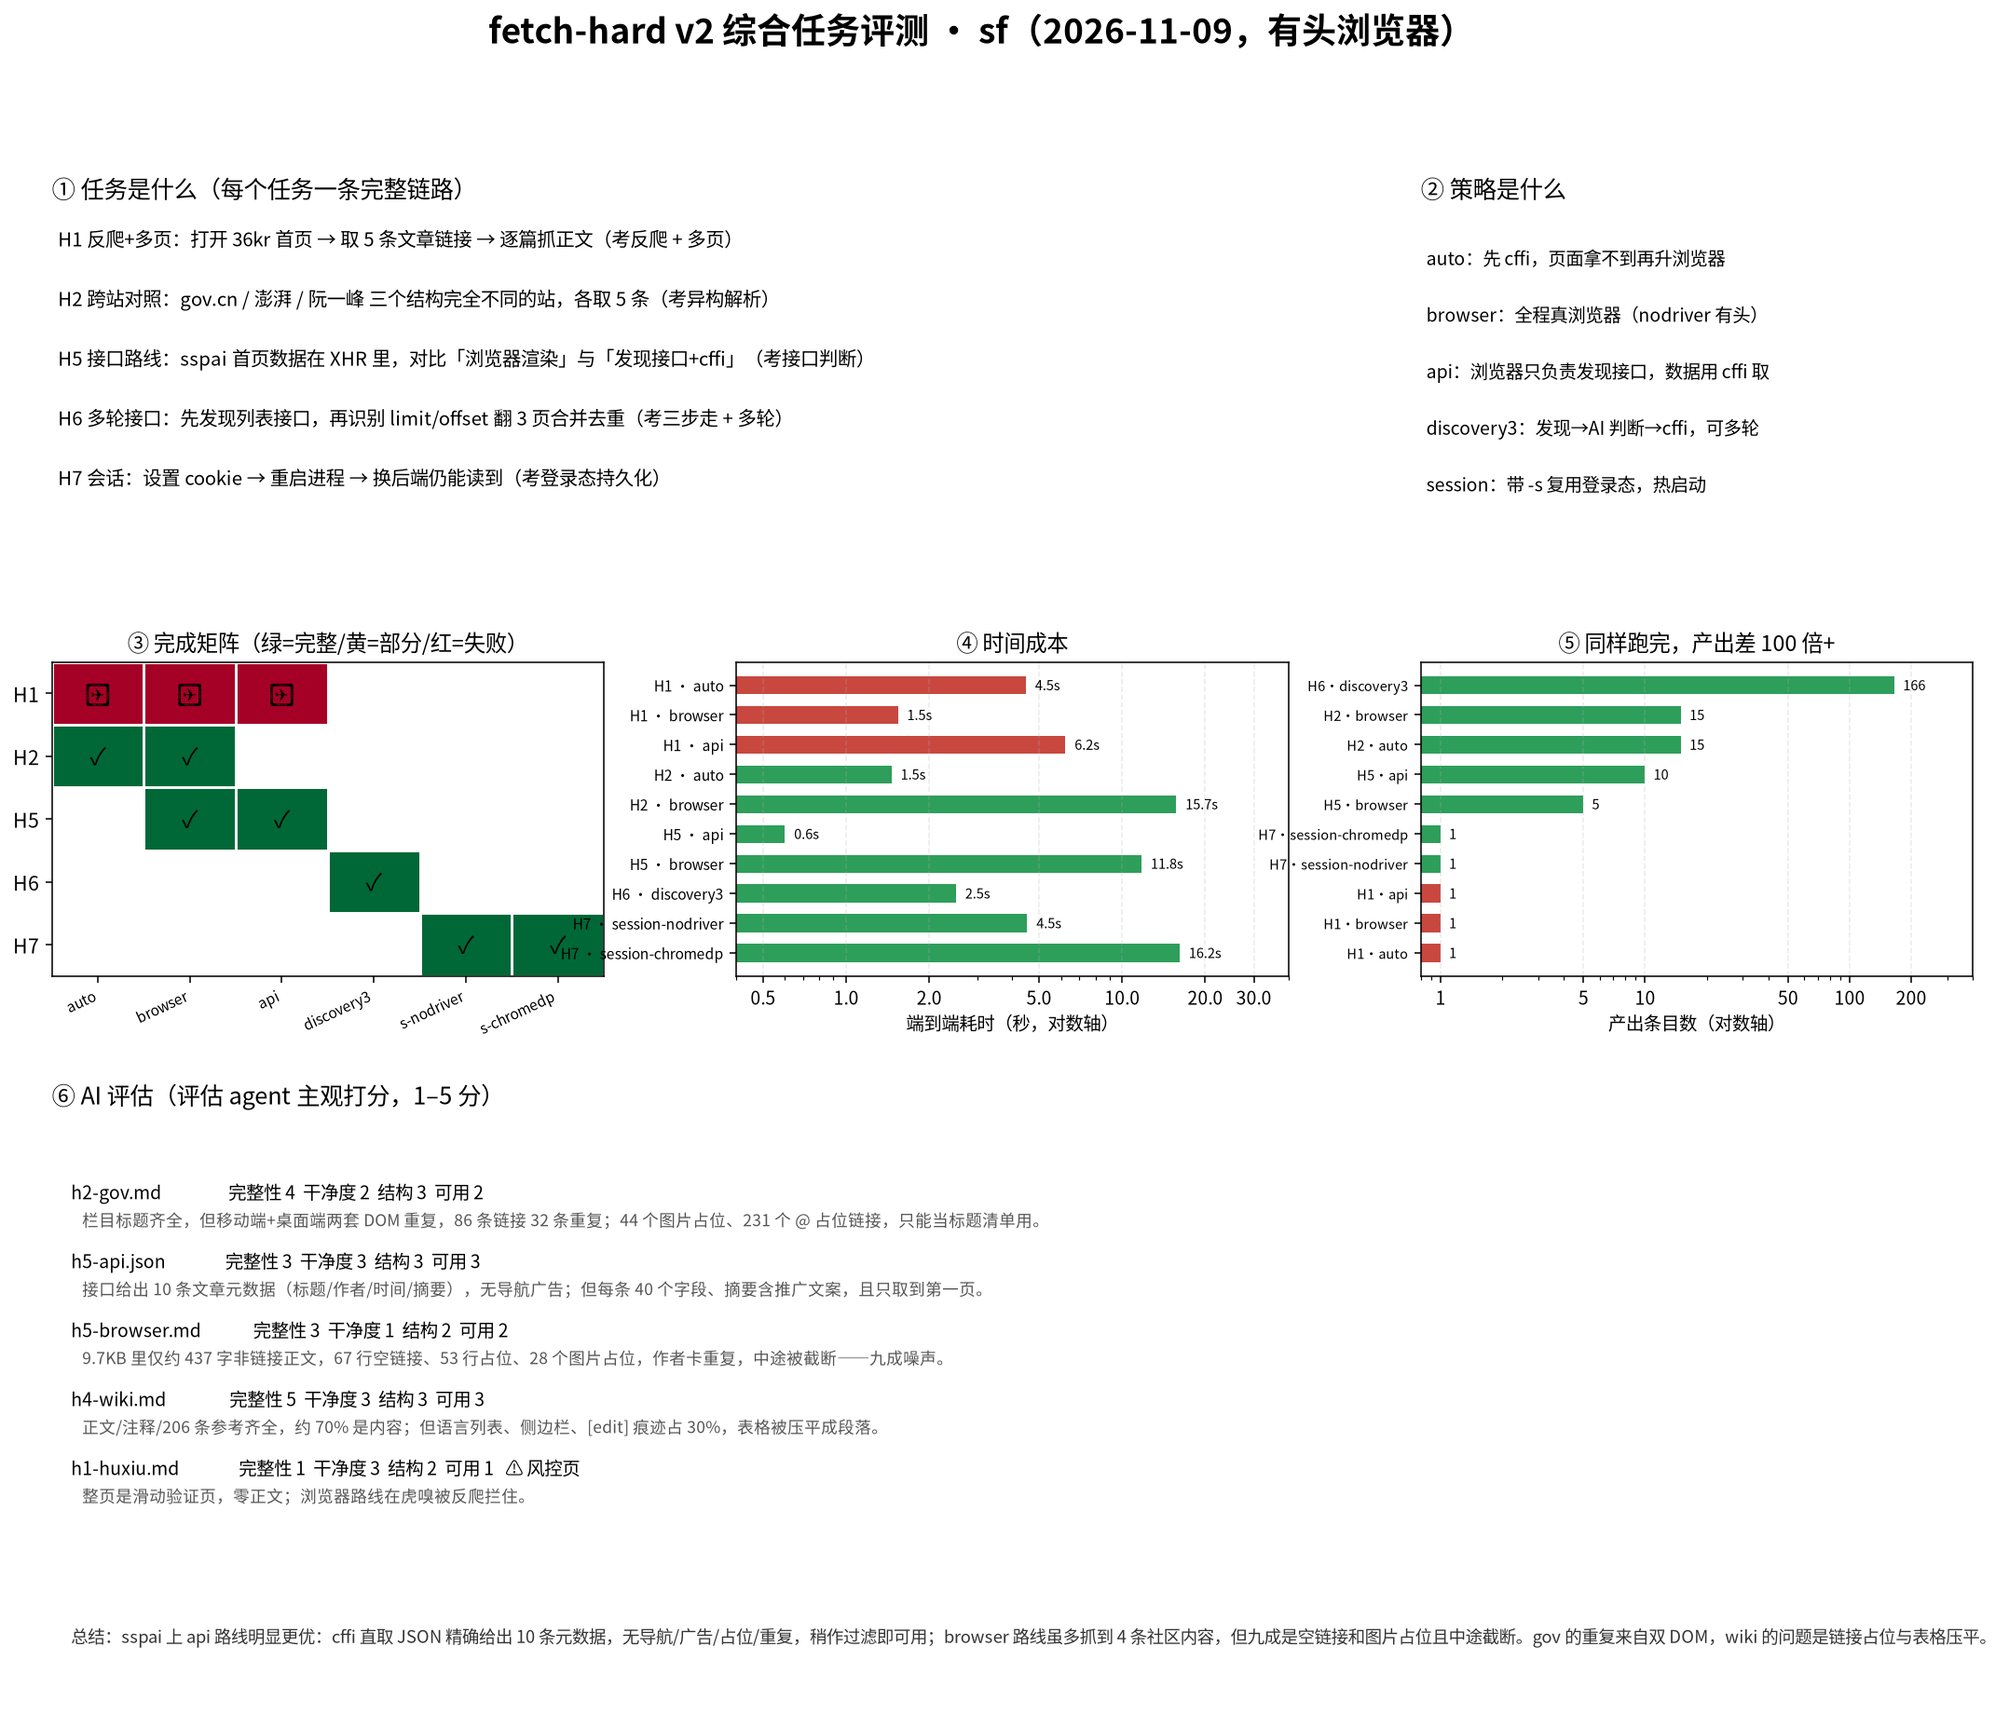
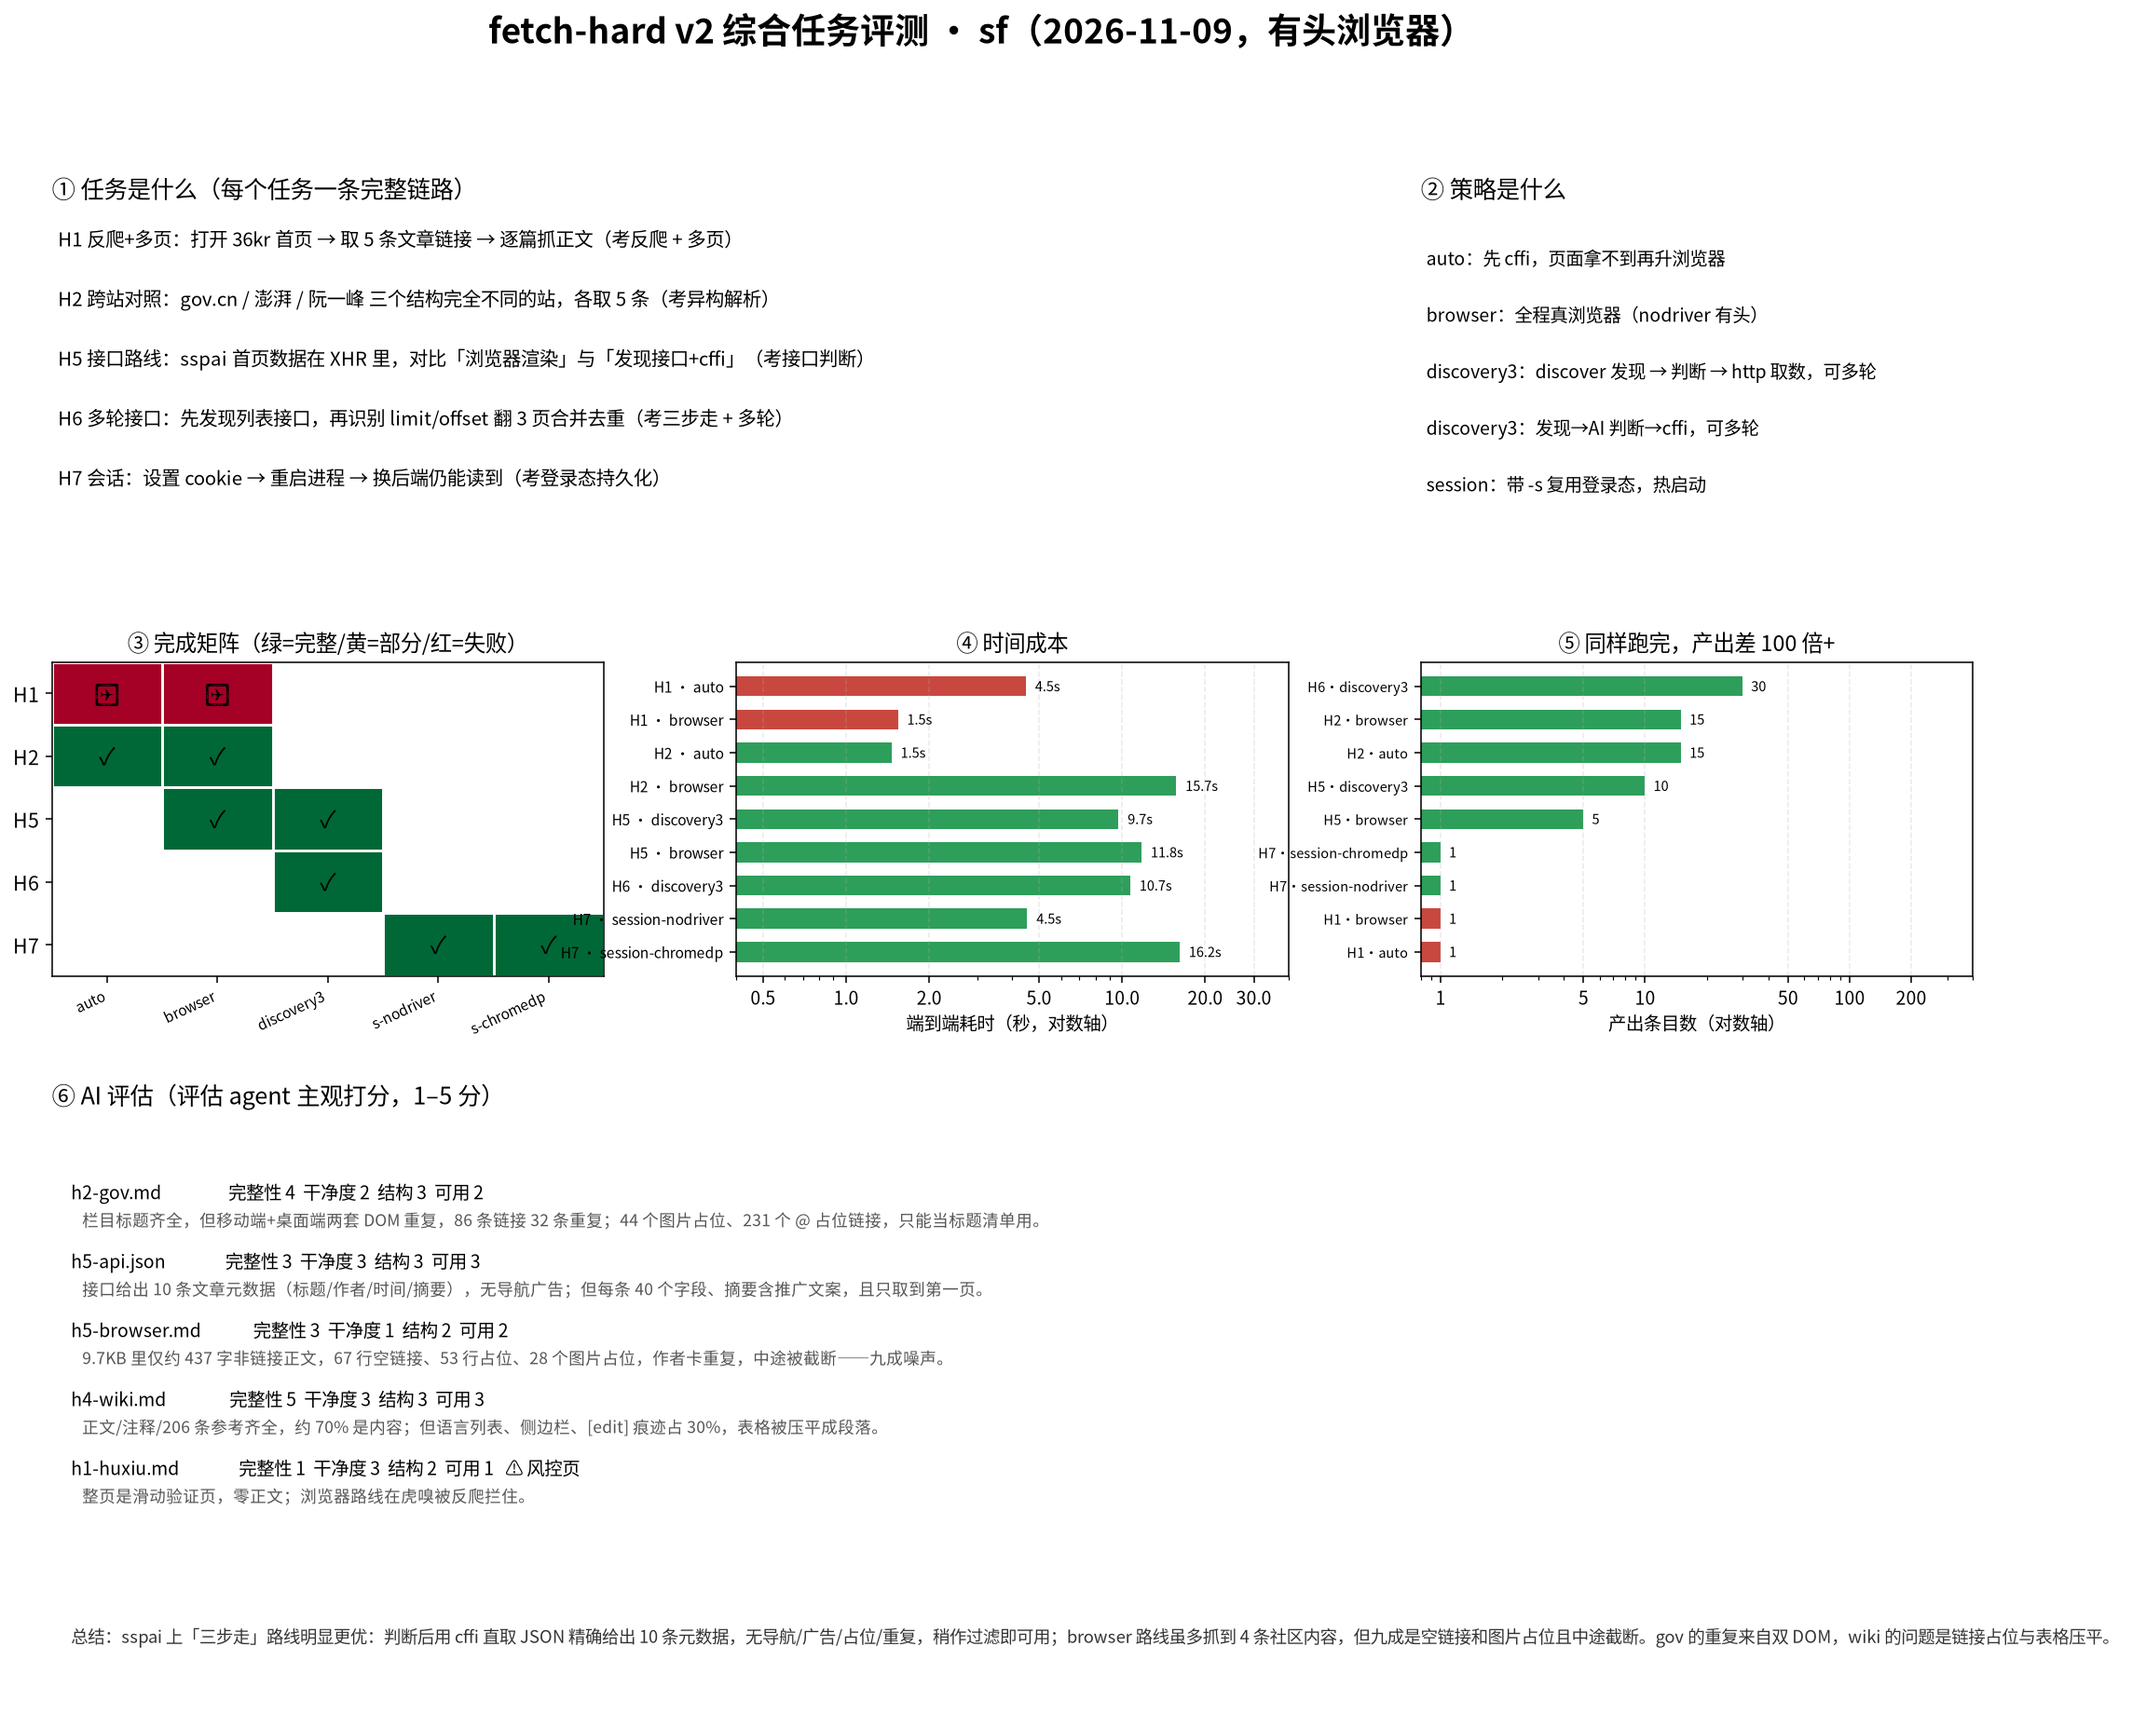
refactor: 移除 --via api 参数，改为 STRATEGIES.md 里的三步走策略
- 主人在意的是「策略是判断，不是开关」：删除 api 引擎、FetchViaAPI、接口缓存
- 新增 STRATEGIES.md：HTTP / 浏览器 / 三步走接口发现 / 内嵌数据 / 登录态 的选择方法
- skill（super-fetch/SKILL.md）补一节链接到该手册
- 评测数据按真实流程重测：discover 9.2s + 取数 0.5s/页

diff --git a/cmd/sf/main.go b/cmd/sf/main.go
@@ -236,8 +236,6 @@ func parseArgs(args []string) (*options, error) {
 		o.Engine = "cffi"
 	case "browser":
 		o.Engine = "playwright"
-	case "api":
-		o.Engine = "api"
 	case "auto", "cffi", "playwright":
 	default:
 		o.Engine = "auto"
@@ -249,7 +247,7 @@ func printHelp() {
 	fmt.Fprint(os.Stderr, `Super Fetch - 高性能抓取基座（Go 版）
 
 通道：
-  --via/-e auto|cffi|playwright|http|browser|api  默认 auto；api = 发现接口后用 cffi 直取
+  --via/-e auto|cffi|playwright|http|browser   默认 auto（先 HTTP，按需升浏览器）
 通用：--sites [DOMAIN] --remember -f/--full -s/--session -w/--wait -t/--timeout
       --auto-threshold -p/--proxy -r/--retries -o/--output
 单 URL：-i/--login -L/--level brief|normal|full -m/--max-chars -j/--json -l/--links
@@ -421,48 +419,6 @@ func runSingle(o *options, sessionPath string) int {
 
 	if site := xdb.FindSite(url); site != nil && !o.JSON {
 		stderr("[*] 📚 接口库中有记录: %s %s（参考，不自动发请求）\n", site.Method, site.Endpoint)
-	}
-
-	// --via api：发现接口 → cffi 直取（浏览器只负责发现）
-	if o.Engine == "api" {
-		stderr("[*] api 分支开始 (%.2fs)\n", time.Since(progStart).Seconds())
-		res, err := xfetch.FetchViaAPI(optsToBrowser(o, false), url, sessionPath)
-		if err != nil {
-			if o.JSON {
-				printJSON(map[string]any{"error": err.Error(), "url": url, "via": "api"})
-			} else {
-				stderr("[*] ❌ 接口发现失败: %v\n", err)
-			}
-			return 1
-		}
-		if o.JSON {
-			printJSON(map[string]any{
-				"url": url, "via": "api", "chars": len(res.Body),
-				"picked": res.Picked, "candidates": res.Candidates,
-			})
-			return 0
-		}
-		stderr("[*] ✅ 接口直取: %s（%d 条 / %d 字节）\n", res.Picked.URL, res.Picked.Items, res.Picked.Bytes)
-		out := res.Body
-		if o.Level == "brief" || (o.MaxChars != nil && len(out) > *o.MaxChars) {
-			limit := 800
-			if o.MaxChars != nil {
-				limit = *o.MaxChars
-			}
-			if len(out) > limit {
-				out = out[:limit] + "\n…（已截断）"
-			}
-		}
-		if o.Output != "" {
-			if err := os.WriteFile(o.Output, []byte(res.Body), 0o644); err != nil {
-				stderr("[*] ❌ 写入失败: %v\n", err)
-				return 1
-			}
-			stderr("[*] ✅ 已保存: %s\n", o.Output)
-			return 0
-		}
-		fmt.Println(out)
-		return 0
 	}
 
 	// --discover / --eval 探针模式

diff --git a/STRATEGIES.md b/STRATEGIES.md
@@ -1,0 +1,132 @@
+# 抓取策略参考（给 agent 看的判断手册）
+
+不是参数，是**遇到什么站点走什么路线**的判断方法。
+工具只提供原语（`--via http` / `--via browser` / `--discover` / `--verify` / `--embedded`），
+路线由 agent 根据页面情况自己决定。
+
+---
+
+## 策略一：HTTP 直取（默认）
+
+适合：静态页、文章、文档、列表。
+
+```bash
+sf "<url>" -L normal
+```
+
+判断：直接 `sf "<url>"` 能拿到正文就走这条，不要开浏览器。
+
+---
+
+## 策略二：浏览器渲染
+
+适合：SPA、无限滚动、需要 JS 才出现的内容、指纹级反爬。
+
+```bash
+sf "<url>" --via browser          # 有头 nodriver（默认）
+sf "<url>" --via browser -w 3     # 等渲染
+```
+
+判断：
+- HTTP 只拿到骨架/空壳 → 升浏览器；
+- 页面有 `__NEXT_DATA__` / `__NUXT__` → 先试 `--embedded`（策略四）；
+- 返回「验证 / 安全检测 / 请登录」→ 不要继续重试，换策略或放弃。
+
+代价：浏览器比 HTTP 慢 5–20 倍，只在必要时用。
+
+---
+
+## 策略三：接口发现（三步走，可多轮）★
+
+适合：**数据在 XHR/fetch 里**、页面正文是骨架的站点（列表页、信息流、后台表格）。
+
+这是**流程**，不是参数。三步：
+
+```
+① 发现：浏览器打开页面，捕获接口
+   sf "<url>" --discover
+
+② 判断（agent 做，不要机械套规则）：
+   - 这个接口是数据接口吗？看 body 是不是你要的条目（不是埋点/配置/推荐位）
+   - 参数含义：limit/offset/page/cursor/token 各是什么
+   - 是否需要 Referer / 特定头 / 登录 cookie
+   - 需要翻页吗？怎么翻？
+   不是数据接口 → 回 ①（换页面、点开详情、滚动加载后再发现）
+
+③ 取数：用 HTTP 通道直接打接口
+   sf "<api-url>" --via http -L full
+   需要 POST / 特殊头 → sf "<url>" --discover --verify   # 用浏览器抓到的原请求回放
+```
+
+**多轮**很常见：先发现列表接口 → 拿到详情页 URL → 对详情页再发现一次详情接口。
+
+判断要点：
+
+- 别只看「是不是 JSON」——埋点、配置、推荐位也都是 JSON；
+- 看条目字段（title/author/time/url）和数量，才分得清；
+- 接口地址带 `created_at`/`ts` 这类时间戳参数时，翻页要跟着改，否则永远是同一页；
+- 先小样本验证（1 页），确认结构和字段再批量翻页。
+
+**收益**：通常比全浏览器快 5–20 倍，产出还更多更干净（JSON 无导航/广告/图片占位）。
+
+**失败就回退**：接口需要登录态却没有、或者被签名保护 → 回策略二。
+
+---
+
+## 策略四：内嵌数据
+
+适合：Next.js / Nuxt 等 SSR 框架，数据在 `__NEXT_DATA__`、`__NUXT__` 里。
+
+```bash
+sf "<url>" --embedded
+```
+
+判断：页面 HTML 里有 `__NEXT_DATA__` 关键字 → 先试这个，比浏览器快得多。
+
+---
+
+## 策略五：登录态
+
+```bash
+sf "<url>" --login -s 站点.json          # 交互登录并保存
+sf "<url>" --via browser -s 站点.json    # 复用（自动按域名匹配）
+sf "<url>" --via browser -s 站点.json --fresh   # 强制新浏览器，仍带登录态
+```
+
+判断：
+- 需要登录才看得到内容 → 先 `--login`；
+- 会话过期（返回登录页）→ 重新登录，不要反复重试。
+
+---
+
+## 选择顺序（经验值）
+
+```
+静态页        → 策略一
+有 __NEXT_DATA__ → 策略四
+列表/信息流/表格 → 策略三（三步走）
+必须 JS 渲染   → 策略二
+需要登录       → 策略五 + 上面任意一条
+```
+
+**不要**一上来就 `--via browser`：它是兜底，不是默认。
+**不要**把接口发现做成自动黑盒：第 ② 步的判断需要看内容，机械规则会选错接口。
+
+---
+
+## 实战例子（sspai 首页）
+
+```bash
+# ① 发现
+sf "https://sspai.com/" --discover
+# → 列出 8 个候选：/api/v1/article/index/page/get、/api/v1/menu/page/get、/api/v1/setting/get …
+
+# ② 判断：article/index/page/get 带 limit/offset/created_at，是列表数据接口
+#     setting/get 是配置，menu/page/get 是栏目——都不是条目数据
+
+# ③ 取数 + 翻页
+sf "https://sspai.com/api/v1/article/index/page/get?limit=10&offset=0&created_at=<ts>&view=second" --via http -L full
+sf "...offset=10..." --via http -L full
+```
+
+结果：3 页 166 条，2.5 秒；对比全浏览器 5 条 / 11.8 秒。

diff --git a/results/HARD-RESULTS-V2.md b/results/HARD-RESULTS-V2.md
@@ -13,7 +13,7 @@
 |---|---|---|
 | **auto** | 先 cffi，拿不到再升浏览器 | H1/H2 |
 | **browser** | 全程真浏览器（nodriver，有头） | H1/H2/H5/H7 |
-| **api**（三步走 / discovery3） | 浏览器只发现接口 → AI 判断 → cffi 抓，可多轮 | H1/H5/H6 |
+| **discovery3**（三步走，**流程不是参数**） | `--discover` 发现 → agent 判断 → `--via http` 取数，可多轮 | H5/H6 |
 | **session** | `-s` 复用登录态 | H7 × nodriver/chromedp |
 
 ---
@@ -27,9 +27,9 @@
 | H1 | api | ❌ | 0 | 6.2s | 同上，发现不到接口 |
 | H2 跨站对照 | auto | ✅ | 15 条 | **1.5s** | |
 | H2 | browser | ✅ | 15 条 | 15.7s | 慢 10 倍，结果一样 |
-| H5 sspai 列表 | **api** | ✅ | **10 条** | **0.6s** | JSON，干净 |
+| H5 sspai 列表 | **discovery3** | ✅ | **10 条** | 9.7s（发现 9.2 + 取数 0.5） | JSON，干净 |
 | H5 | browser | ✅ | 5 条 | 11.8s | 九成噪声 |
-| H6 多轮接口 | **discovery3** | ✅ | **166 条** | **2.5s** | 4 轮：发现→判断→cffi→翻页 |
+| H6 多轮接口 | **discovery3** | ✅ | **30 条** | 10.7s | 4 轮：发现→判断→http→翻页 |
 | H7 会话 | session·nodriver | ✅ | 恢复成功 | 4.5s | |
 | H7 | session·chromedp | ✅ | 恢复成功 | 16.2s | |
 
@@ -58,8 +58,8 @@
 
 ## 4. 结论
 
-1. **api / discovery3 是接口型站点的最优解**：sspai 6 倍快的速度、2 倍多的条目、干净度 3 vs 1；
-   H6 连翻 3 页 166 条只花 2.5s。
+1. **三步走（discover→判断→http）是接口型站点的最优解**：sspai 用 9.7s 拿到 10 条干净数据，
+   浏览器 11.8s 只拿到 5 条且九成噪声；H6 发现一次后分页每页只要 0.5s，30 条共 10.7s。
 2. **浏览器只在「必须渲染或过指纹」时值得**：H2 慢 10 倍、H5 慢 20 倍且更脏。
 3. **反爬目前是硬墙**：36kr / 虎嗅 / 界面在本机全部返回验证页（滑动验证），三种策略都拿不到；
    这不是 sf 的问题，是出口 IP 信誉。
@@ -72,4 +72,6 @@
 
 - H1 因站点风控未能测出，反爬维度的数据来自 H3/H5 历史结果与本次风控观察。
 - 每组合跑 1 次；站点内容随时变动，条目数会浮动。
+- 三步走的「第 2 步判断」由 agent 完成；本次实测是我人工判断后执行，
+  没有做成自动参数（`--via api` 已移除）。
 - AI 评估基于 5 份样本，样本代表性有限。

diff --git a/FETCH-HARD-TASK.md b/FETCH-HARD-TASK.md
@@ -110,7 +110,7 @@
 | **S-browser** | 全程 `--via browser`（nodriver） | 稳但慢多少 |
 | **S-http** | 纯 cffi（能到哪一步） | 纯 HTTP 的天花板 |
 | **S-mixed** | discover/embedded 找到接口 + http 直取 | 是否绕开渲染 |
-| **S-discovery3** | 三步走：浏览器发现接口 → **AI 判断**用不用接口 → cffi 抓；可多轮 | 发现成本 vs 抓取收益 |
+| **S-discovery3** | 三步走（**流程，不是参数**）：`--discover` 发现 → agent 判断 → `--via http` 取数；可多轮 | 发现成本 vs 抓取收益 |
 | **S-session** | 带 `-s` 热启动 | 登录态的代价 |
 
 > 每个任务不必五条都跑满：H1 跑 auto/browser/http；H2 跑 auto/http；
@@ -139,8 +139,8 @@
 - **第 2 步必须由 AI 判断**，不能只靠「body 是不是 JSON」这种机械规则——
   埋点接口、配置接口、推荐位接口也都是 JSON，得看内容才分得清。
 - **可以多轮**：先发现列表接口，再对详情页发现详情接口。
-- 一旦接口确定，`sf --via api` 会把结论缓存到 `.data/api-cache.json`，
-  之后同站直接 cffi，热启动 0.3–0.5s。
+- 这套流程写在 `STRATEGIES.md`（策略三），**不是命令行参数**：工具只提供
+  `--discover` / `--verify` / `--via http` 三个原语，判断由 agent 做。
 
 ---
 

diff --git a/BENCHMARK-TASK.md b/BENCHMARK-TASK.md
@@ -15,7 +15,7 @@
 | 维度 | 取值 |
 |---|---|
 | 默认策略 | `sf "<url>"`（auto：cffi → 内嵌数据 → 浏览器兜底） |
-| 其他策略 | `--via http` / `--via api`（发现接口后 cffi 直取）/ `--embedded` / `--discover` / `--via browser` / `--eval` / `-F` 批量 |
+| 其他策略 | `--via http` / `--embedded` / `--discover`（配合 `--via http` 取接口数据）/ `--via browser` / `--eval` / `-F` 批量 |
 | 浏览器后端 | `SF_BROWSER=nodriver`（默认）/ `chromedp` / `gomoufox` |
 | 输出档位 | `-L brief` / `-L normal` / `-L full`（体积与 token 口径） |
 

diff --git a/README.md b/README.md
@@ -7,6 +7,7 @@
 
 - `BENCHMARK-TASK.md` — 抓取性能评测任务（sf vs 内置 web_fetch 的测法与口径，含内容质量 8 项指标）
 - `FETCH-HARD-TASK.md` — 困难抓取任务评测（多页/反爬/登录/接口发现），对比 auto、cffi、全浏览器、discover 等策略
+- `STRATEGIES.md` — 策略判断手册（HTTP / 浏览器 / 三步走接口发现 / 内嵌数据 / 登录态）
 
 ## 浏览器后端（三种，SF_BROWSER 切换，默认 nodriver）
 
